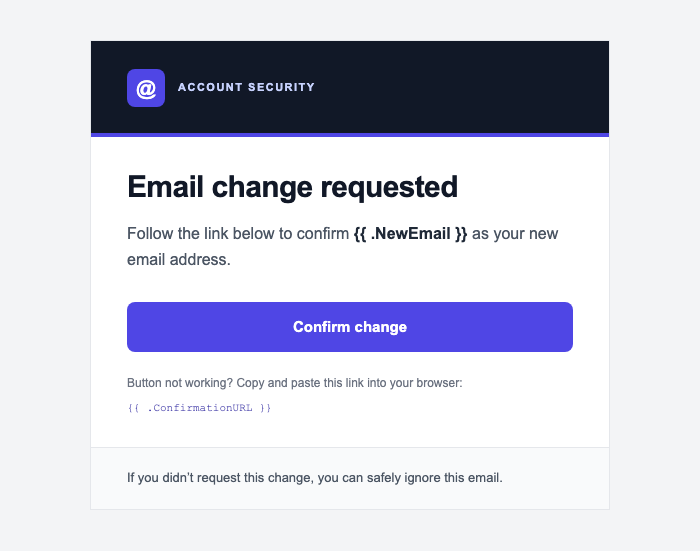
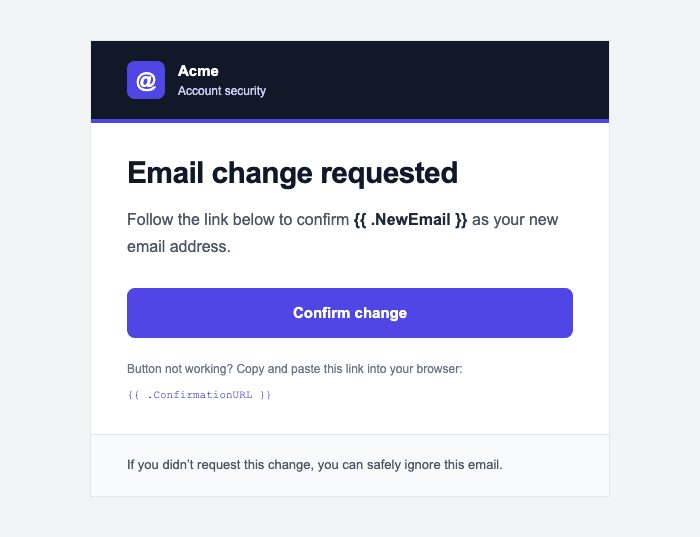
feat: show the service name in Supabase account security headers

diff --git a/templates/supabase-change-email.html b/templates/supabase-change-email.html
@@ -124,7 +124,7 @@
               <td
                 class="content-cell"
                 style="
-                  padding: 28px 36px 26px;
+                  padding: 20px 36px;
                   background-color: #111827;
                   border-bottom: 4px solid #4f46e5;
                 "
@@ -162,18 +162,32 @@
                     </td>
                     <td
                       valign="middle"
-                      style="
-                        padding-left: 13px;
-                        color: #c7d2fe;
-                        font-family: Arial, Helvetica, sans-serif;
-                        font-size: 11px;
-                        font-weight: bold;
-                        letter-spacing: 1.5px;
-                        line-height: 1.4;
-                        text-transform: uppercase;
-                      "
+                      style="padding-left: 13px"
                     >
-                      Account security
+                      <!-- Replace the company name before sending. -->
+                      <p
+                        style="
+                          margin: 0;
+                          color: #ffffff;
+                          font-family: Arial, Helvetica, sans-serif;
+                          font-size: 15px;
+                          font-weight: bold;
+                          line-height: 1.35;
+                        "
+                      >
+                        Acme
+                      </p>
+                      <p
+                        style="
+                          margin: 2px 0 0;
+                          color: #c7d2fe;
+                          font-family: Arial, Helvetica, sans-serif;
+                          font-size: 12px;
+                          line-height: 1.35;
+                        "
+                      >
+                        Account security
+                      </p>
                     </td>
                   </tr>
                 </table>
